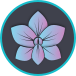
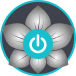
New connect button and functionality

diff --git a/src/app/app.component.html b/src/app/app.component.html
@@ -4,10 +4,10 @@
   <div id="sidebar-wrapper" class="row">
     <div class="sidenav col">
       <div class="navbar navbar-inverse sidebar-navbar">
-        <div class="text-center" on-click="imgsrc='assets/imgs/button-connected.png'">
+        <div class="text-center connect" on-click="imgsrc='assets/imgs/button-connected.png';status='Connected'">
         <a class="text-center"><!-- show when connected <img src="assets/imgs/button-connected.png" align="center" class="connect-button" /> --><img src="{{imgsrc}}" align="center" class="connect-button" /></a>
         <br />
-        Connect
+        {{status}}
       </div>
         <ul class="nav flex-column nav-pills nav-stacked">
 <!--

diff --git a/src/app/app.component.ts b/src/app/app.component.ts
@@ -4,11 +4,19 @@ import { DashboardComponent } from './dashboard/dashboard.component';
 @Component({
   selector: 'body',
   templateUrl: './app.component.html',
-  styleUrls: ['./app.component.css']
+  styleUrls: ['./app.component.scss']
 })
 export class AppComponent {
 isDB = true;
-connected = false;
+status = 'Connect';
 imgsrc='assets/imgs/button-not-connected.png';
   title = 'app';
+}
+
+function Ctrl($scope) {
+    $scope.state = 'on';
+
+    $scope.changeState = function() {
+        $scope.state = $scope.state === 'on' ? 'off' : 'on';
+    }
 }

diff --git a/src/assets/scss/style.scss b/src/assets/scss/style.scss
@@ -179,7 +179,8 @@ border-radius: 50%;
   @include minimized-breakpoint {margin-left: -100px;
    left: 100px;
    width: 100px;}
-.connect-button{width: 84px;margin:auto;}
+.connect-button{width: 84px;margin:auto;margin-bottom: 6px;}
+.connect{text-transform: uppercase;}
 .sidenav {
       background-color:$dark-bg-color;
       color: $white-text;
